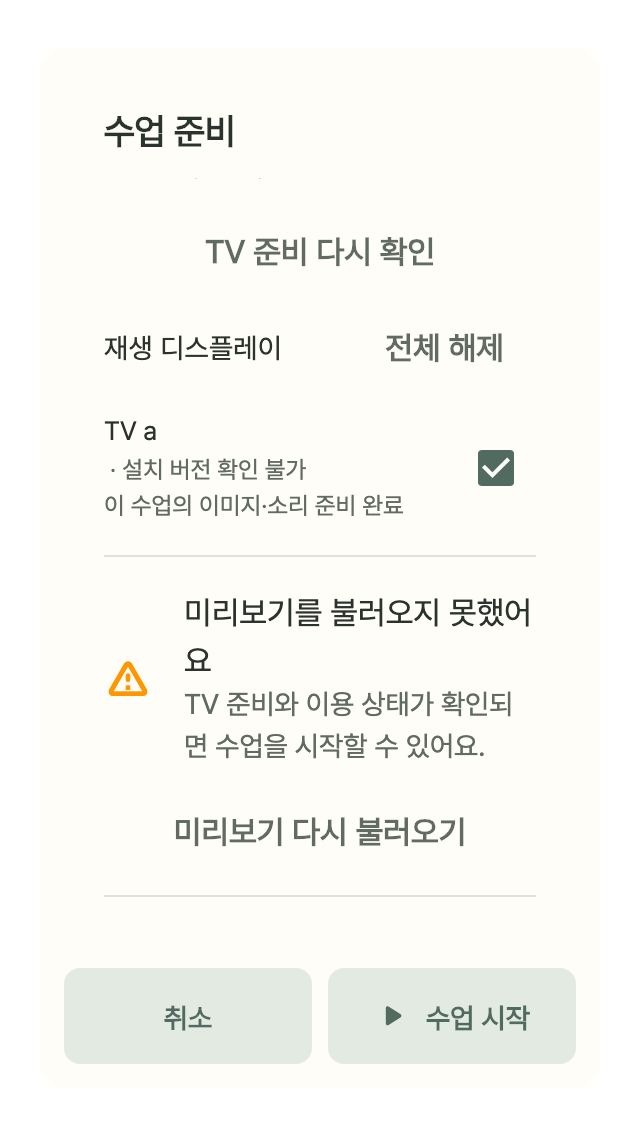
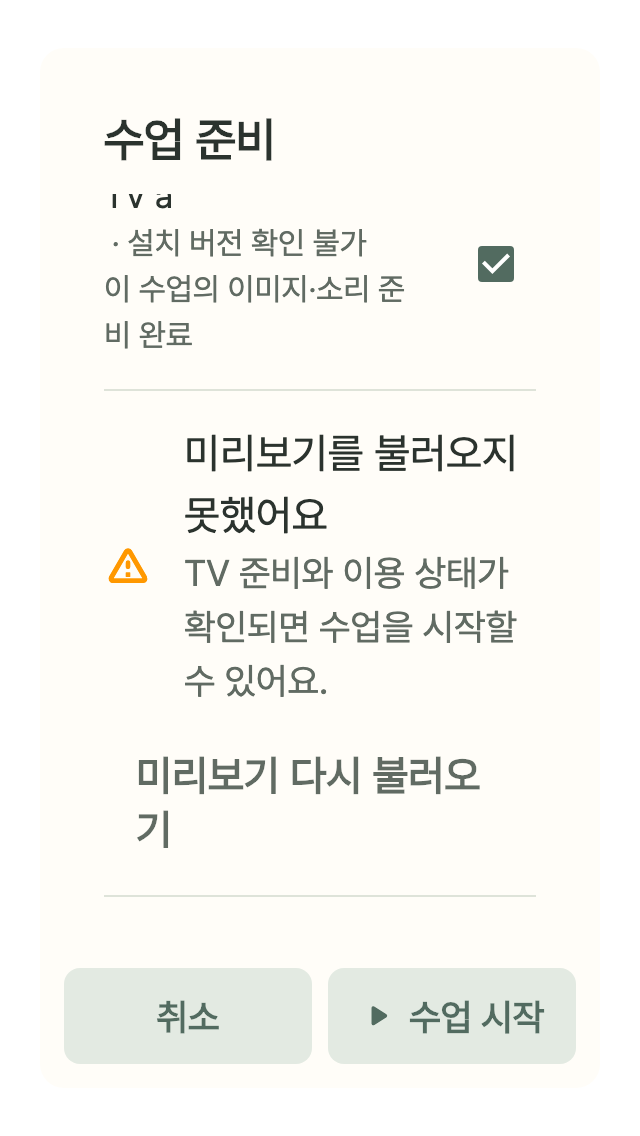
docs: correct scaled preflight visual evidence

diff --git a/docs/development/preparation-speed-ux-2026-11-14.md b/docs/development/preparation-speed-ux-2026-11-14.md
@@ -6,7 +6,7 @@
 - clean Orca worktree: `/Users/sunmkim/orca/workspaces/cloudboardapp/preparation-speed-ux`
 - 기준 develop: `1f9cb6b49898e63de2dc30680252d159036fedac` (구현 후 fetch로 동일함 확인)
 - 실제 최종 코드 검사 커밋: `7c194a0a2456989eb89f897c5de02742af035bc7`
-- PR 인계 head는 PR 본문의 `검증한 커밋:`으로 기록한다. 코드 커밋 이후 Flutter 실행 코드 변경은 없다. 문서·검증 로그·fixture 캡처와 후속 표시 버전/소식 후보 메타데이터 변경을 포함하며, 버전 일치 검사는 아래 후속 기록의 커밋에서 별도 수행했다.
+- PR 인계 head는 PR 본문의 `검증한 커밋:`으로 기록한다. 코드 커밋 이후 Flutter 실행 코드 변경은 없다. 문서·검증 로그·fixture 캡처, 후속 표시 버전/소식 후보 메타데이터 및 캡처 fixture 글자 배율 적용 보정을 포함하며, 버전 일치 검사는 아래 후속 기록의 커밋에서 별도 수행했다.
 - 원본 기획: `/Users/sunmkim/Dev2026/CloudBoard/report/output/preparation-performance-2026-11-14/astra-analysis.json`의 `latency_plan`.
 - 구현·관련 검증 완료. develop/main 병합·배포 미실행. 원래 dirty develop checkout, 타이모, CI 설정, 서버, TV protocol, 캐시/압축/전송 정책은 수정하지 않았다. 최초 UX 검증의 표시 버전은 `2.1.5+9`였으며, 이후 사용자 지시로 `2.1.6+10` 기점 변경을 추가했다(아래 후속 기록).
 
@@ -102,3 +102,6 @@ git diff 1f9cb6b HEAD --name-only -- '*.dart' | xargs /Users/sunmkim/fvm/version
 - `node tool/release/play_version_code.mjs --version-name`: **2.1.6**, exit 0. 읽기 전용 버전 추출이며 번호 예약·네트워크·태그 생성 없음.
 - `git diff --check`: 통과. Flutter 실행 코드·의존성·lockfile에 변경이 없어 앞선 관련 검증을 재사용했으며 전체 회귀/빌드는 재실행하지 않았다.
 - `.github/workflows`, `tool/release`, Firebase 문서는 읽기만 했고 수정하지 않았다. 별도 담당과 경로 충돌 없음. 태그·배포·소식 게시·스토어 빌드/업로드 미실행.
+
+
+후속 증거 점검에서 preview fixture의 `scale` 인자가 실제 `MediaQuery.textScaler`에 전달되지 않은 점을 발견해 보정했다. 검사 커밋 `6497872f16e1058a853c45e9021ef6805a2c7ac4`에서 `/Users/sunmkim/fvm/versions/3.47.8/bin/flutter test --no-pub --dart-define=STA190_EVIDENCE=/tmp/preparation-speed-ux-evidence test/workout_preflight_dialog_test.dart --plain-name 'narrow scaled preview'` **1 passed**, exit 0이며 실제 320×568/1.3배의 시작·재시도 접근을 확인하고 `remote-narrow-scaled.png`를 교체했다. 최초 47개 배치의 해당 fixture는 배율 1.0이었으며, 1.3배 근거는 이 후속 결과다. 앱 실행 코드 변경은 없다.
